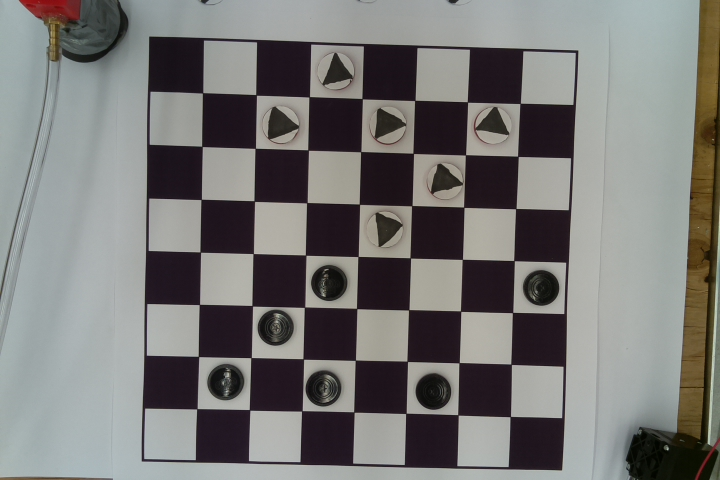
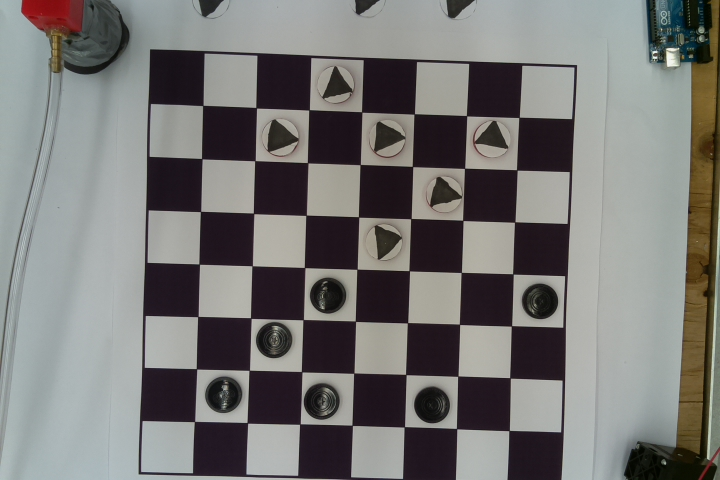
pi cam

diff --git a/picameracode.py b/picameracode.py
@@ -9,23 +9,23 @@ def getState():
 	"""
 	camera = picamera.PiCamera()
 	time.sleep(4)
-	camera.capture('/home/pi/Robot-Game/res/boardStateOne.jpg')
+	camera.capture('/home/pi/Robot-Game/res/boardStateNew.jpg')
 	camera.close()
 
 def getImage(filename):
 	"""
 		returns the img
 	"""
-	return cv2.imread(filename)
+	return cv2.imread(filename, 0)
 
 def getContour(img):
 	"""
 		returns the contour of the board
 	"""
 
-	imgray = cv2.cvtColor(img,cv2.COLOR_BGR2GRAY)
-	edges = cv2.Canny(imgray,100,200)
-	ret,thresh = cv2.threshold(imgray,127,255,cv2.THRESH_BINARY | cv2.THRESH_OTSU)
+	#imgray = cv2.cvtColor(img,cv2.COLOR_BGR2GRAY)
+	edges = cv2.Canny(img,100,200)
+	ret,thresh = cv2.threshold(img,127,255,cv2.THRESH_BINARY | cv2.THRESH_OTSU)
 	contours, hierarchy = cv2.findContours(thresh,cv2.RETR_TREE,cv2.CHAIN_APPROX_SIMPLE)
 	return contours
 
@@ -56,7 +56,7 @@ def getColorList(contours):
 	for cnt in contours:
 		m = cv2.moments(cnt)
 
-		if m['m00'] > 20:
+		if m['m00'] > 700 and m['m00'] >500:
 			x,y = int(m['m10']/m['m00']), int(m['m01']/m['m00'])
 			i= i+1
 			color.append((x,y))
@@ -158,8 +158,7 @@ def picam_main():
 	"""
 	getState()
 	#img = getImage('/home/pi/Robot-Game/res/boardState.jpg')
-	img = getImage('/home/pi/Robot-Game/res/vidCheckers.png')
-	imgray = cv2.cvtColor(img,cv2.COLOR_BGR2GRAY)
+	img = getImage('/home/pi/Robot-Game/res/boardStateNew.png')
 	brdCountour = getContour(img)
 	# clrCountour = getColor(img)
 	brdList, centerX, centerY, cornerX, cornerY = getBoardList(brdCountour)
@@ -178,5 +177,5 @@ def pic():
 	getState()
 	
 if __name__ in "__main__":
-	#main()
-	pic()
+	picam_main()
+	#pic()
